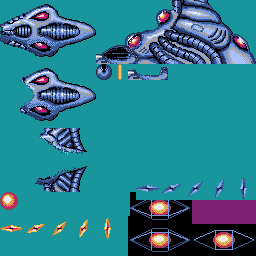
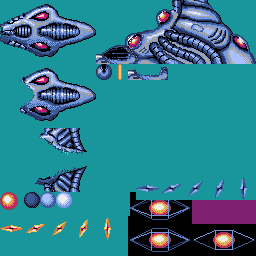
ラスボス　第２形態パターン２途中

Changed region(s): [[0.0938, 0.75, 0.2812, 0.8125]]

diff --git a/source/boss.py b/source/boss.py
@@ -2139,7 +2139,7 @@ class BossLast1(enemy.EnemyBase):
 				n = BossLast1.table8[int(self.cnt /8) & 7]
 				gcommon.ObjMgr.addObj(BossLastDiamondShot(self.x +32+16+32, self.y +64+16+16+8, 24 -n*2))
 				gcommon.ObjMgr.addObj(BossLastDiamondShot(self.x +32+16+32, self.y +64+16+16-8, 40 +n*2))
-			if self.cnt > 300:
+			if self.cnt > 30:
 				self.nextState()
 		elif self.state == 3:
 			if self.cnt > 30:
@@ -2149,10 +2149,12 @@ class BossLast1(enemy.EnemyBase):
 			#if self.cnt & 3 == 0:
 			#	self.arrowRad = math.pi + math.pi * (self.random.rand() % 100 -50)/120
 			#	gcommon.ObjMgr.addObj(BossLastArrowShot(self.x +32+16+32, self.y +64+16+16, self.arrowRad))
-			if self.cnt & 3 == 0:
-				self.omega = (self.random.rand() % 120 -60)/800
-				rad  = math.pi + math.pi * (self.random.rand() % 100 -50)/120
-				gcommon.ObjMgr.addObj(BossLastFallShotGroup(self.x +32+16+32, self.y +64+16+16, rad, self.omega, 5))
+			# if self.cnt & 3 == 0:
+			# 	self.omega = (self.random.rand() % 120 -60)/800
+			# 	rad  = math.pi + math.pi * (self.random.rand() % 100 -50)/120
+			# 	gcommon.ObjMgr.addObj(BossLastFallShotGroup(self.x +32+16+32, self.y +64+16+16, rad, self.omega, 5))
+			if self.cnt == 1:
+				gcommon.ObjMgr.addObj(BossLastRoundBeam(self.x +32+16+32, self.y +64+16+16))
 
 		self.rad = (self.rad + math.pi/60) % (math.pi * 2)
 
@@ -2753,3 +2755,130 @@ class BossLast1Core(enemy.EnemyBase):
 				r -= math.pi * 2
 			if r < math.pi*0.5 or r >= math.pi*1.5:
 				BossLast1Core.drawLine(x, y, r)
+
+class BossLastRoundBeam(enemy.EnemyBase):
+	def __init__(self, x, y):
+		super(BossLastRoundBeam, self).__init__()
+		self.x = x
+		self.y = y
+		self.left = -2
+		self.top = -2
+		self.right = 2
+		self.bottom = 2
+		self.layer = gcommon.C_LAYER_SKY
+		self.ground = False
+		self.hitCheck = True
+		self.shotHitCheck = False
+		self.enemyShotCollision = False
+		self.radOffset = 0.0
+		self.limit = 240
+		self.beamRadStart = 0.0
+		self.beamRadDelta = 0.0
+		# self.list1 = []
+		# self.list2 = []		# 当たり判定ある
+		# self.list3 = []
+		self.listArray = [None] * 12
+	def update(self):
+		self.radOffset -= math.pi * 0.05
+		if self.radOffset < 0:
+			self.radOffset += 2 * math.pi
+		if self.state == 0:
+			if self.limit >= -10:
+				self.limit -= 2
+			else:
+				self.nextState()
+		elif self.state == 1:
+			if self.cnt > 40:
+				self.nextState()
+				self.beamRadStart = 0.0
+		elif self.state == 2:
+			if self.beamRadDelta < math.pi/120:
+				self.beamRadDelta += (math.pi/120/30)
+			if self.beamRadStart < math.pi/8:
+				 self.beamRadStart += math.pi/1000
+			if self.cnt > 120:
+				self.nextState()
+		elif self.state == 3:
+			if self.beamRadDelta > -math.pi/120:
+				self.beamRadDelta -= (math.pi/120/30)
+			if self.beamRadStart > -math.pi/8:
+				 self.beamRadStart -= math.pi/1000
+			if self.cnt > 120:
+				self.setState(2)
+		# 描画準備
+		rad = self.radOffset
+		x2 = self.x
+		self.list1 = []
+		self.list2 = []
+		self.list3 = []
+		r = 0
+		beamRad = self.beamRadStart
+		px = self.x
+		py = self.y
+		count = 0
+		for i in range(len(self.listArray)):
+			self.listArray[i] = []
+		while(x2 > self.limit and count < 50):
+			#y2 = py - math.sin(rad) * r
+			
+			pos = gcommon.getAngle(0, - math.sin(rad) * r, beamRad)
+			x2 = px + pos[0]
+			y2 = py + pos[1]
+			
+			n = int(rad / (math.pi/6))
+			#print(str(n))
+			self.listArray[n % 12].append([x2, y2])
+			# if rad <= math.pi*2/6 or rad >= math.pi*10/6:
+			# 	self.list1.append([x2, y2])
+			# elif rad > math.pi*2/6 and rad <= math.pi*4/6:
+			# 	self.list2.append([x2, y2])
+			# elif rad > math.pi*4/6 and rad <= math.pi*8/6:
+			# 	self.list3.append([x2, y2])
+			# elif rad > math.pi*8/6 and rad <= math.pi*10/6:
+			# 	self.list2.append([x2, y2])
+			# else:
+			# 	self.list1.append([x2, y2])
+			
+			rad += math.pi/4
+			if rad > math.pi*2:
+				rad -= math.pi*2
+			if r < 40:
+				r += 2
+			px += (math.cos(beamRad)* -8)
+			py += (math.sin(beamRad)* -8)
+			beamRad += self.beamRadDelta
+			count += 1
+		
+	def draw(self):
+		# for pos in self.list1:
+		# 	pyxel.circb(pos[0], pos[1], 8, 5)
+		# for pos in self.list2:
+		# 	pyxel.circb(pos[0], pos[1], 8, 12)
+		# for pos in self.list3:
+		# 	pyxel.circb(pos[0], pos[1], 8, 7)
+		for i in range(0,2):
+			self.drawBeam(self.listArray[i], 0)
+		for i in range(10,12):
+			self.drawBeam(self.listArray[i], 0)
+		for i in range(2,4):
+			self.drawBeam(self.listArray[i], 1)
+		for i in range(8,10):
+			self.drawBeam(self.listArray[i], 1)
+		for i in range(4,8):
+			self.drawBeam(self.listArray[i], 2)
+
+	def drawBeam(self, list, clr):
+		for pos in list:
+			#pyxel.circ(pos[0], pos[1], 8, clr)
+			pyxel.blt(pos[0] -7, pos[1] -7, 2, 24 +clr * 16, 192, 16, 16, 3)
+
+
+
+	# 自機と敵との当たり判定
+	def checkMyShipCollision(self):
+		myPos = gcommon.getCenterPos(gcommon.ObjMgr.myShip)
+		for pos in self.list2:
+			d = gcommon.get_distance_pos2(myPos, pos)
+			if d < 6:
+				return True
+		return False

diff --git a/source/gcommon.py b/source/gcommon.py
@@ -346,6 +346,9 @@ def get_direction_my(x, y):
 def get_distance_my(x, y):
 	return math.sqrt((ObjMgr.myShip.x+8 -x)*(ObjMgr.myShip.x+8 -x)+(ObjMgr.myShip.y+8 -y)*(ObjMgr.myShip.y+8 -y))
 
+def get_distance_pos2(pos1, pos2):
+	return math.sqrt((pos1[0]-pos2[0])*(pos1[0]-pos2[0])+(pos1[1]-pos2[1])*(pos1[1]-pos2[1]))
+
 def check_collision(o, s):
 	if (o.x+o.left<=s.x+s.left and s.x+s.left<=o.x+o.right)	\
 		or (o.x+o.left<=s.x+s.right and s.x+s.left<=o.x+o.right):
@@ -773,6 +776,9 @@ def getAnglePoints(destPos, points, offsetPos, rad):
 		y = destPos[1] + ((p[0] -offsetPos[0]) * s + (p[1] -offsetPos[1]) * c)
 		xpoints.append([x,y])
 	return xpoints
+
+def getAngle(x, y, rad):
+	return [(x * math.cos(rad) - y * math.sin(rad)), (x * math.sin(rad) + y * math.cos(rad))]
 
 # Polygonsクラス指定で傾いたポリゴンを返す
 def getAnglePolygons(destPos, polygons, offsetPos, rad):
